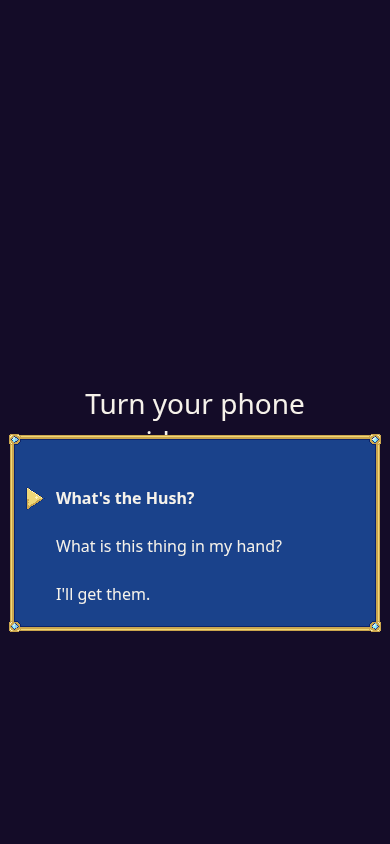
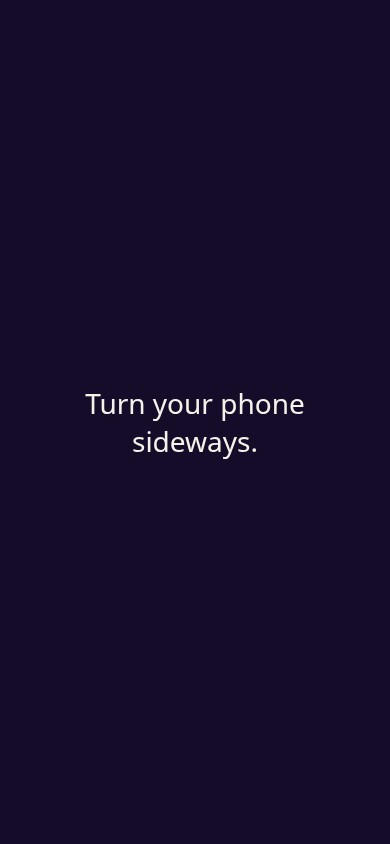
Drop the empty ChoiceBox status band and keep it under the rotate gate.
Reserve the 24px notice row only when the Empty fallback is showing.
Attach the box inside #chrome at z-index 20 so the portrait rotate
gate stays fully readable. Smoke covers both.

Changed region(s): [[0.0, 0.4929, 0.9846, 0.7701]]

diff --git a/js/ui/choice-box.js b/js/ui/choice-box.js
@@ -14,6 +14,8 @@ var SPEC = {
   gap: 4,
   targetH: 44,
   maxW: 420,
+  // Below #rotate (80) so the portrait gate stays readable; above #dialogue (7).
+  zIndex: 20,
   panel: "assets/ui/choicebox-panel.png",
   cursor: "assets/ui/choice-cursor.png"
 };
@@ -29,14 +31,17 @@ SF.ChoiceBox = {
     return a.x < b.x + b.w && a.x + a.w > b.x && a.y < b.y + b.h && a.y + a.h > b.y;
   },
 
-  layout: function (vw, vh, count, text) {
+  layout: function (vw, vh, count, text, showStatus) {
     var n = count | 0;
     if (n < 1) n = 1;
     vw = vw > 0 ? vw : 0;
     vh = vh > 0 ? vh : 0;
+    var statusOn = !!showStatus;
+    var statusH = statusOn ? SPEC.statusH : 0;
+    var gaps = statusOn ? n : Math.max(0, n - 1);
     var boxW = Math.min(SPEC.maxW, vw - SPEC.margin * 2);
     if (!(boxW > 0)) boxW = vw > 0 ? vw : 1;
-    var boxH = SPEC.inset * 2 + SPEC.statusH + n * SPEC.targetH + n * SPEC.gap;
+    var boxH = SPEC.inset * 2 + statusH + n * SPEC.targetH + gaps * SPEC.gap;
     var maxH = vh - SPEC.margin * 2;
     if (maxH > 0 && boxH > maxH) boxH = maxH;
     if (!(boxH > 0)) boxH = 1;
@@ -67,7 +72,7 @@ SF.ChoiceBox = {
     var innerX = boxX + SPEC.inset;
     var innerW = boxW - SPEC.inset * 2;
     if (innerW < 1) innerW = 1;
-    var y0 = boxY + SPEC.inset + SPEC.statusH + SPEC.gap;
+    var y0 = boxY + SPEC.inset + statusH + (statusOn ? SPEC.gap : 0);
     var targets = [];
     var i;
     for (i = 0; i < n; i++) {
@@ -84,7 +89,7 @@ SF.ChoiceBox = {
         x: innerX,
         y: boxY + SPEC.inset,
         w: innerW,
-        h: SPEC.statusH
+        h: statusH
       },
       targets: targets
     };
@@ -106,9 +111,9 @@ function cssText() {
   var statusH = SPEC.statusH;
   var targetH = SPEC.targetH;
   return ""
-    + "#sf-choicebox{position:fixed;z-index:120;margin:0;display:flex;flex-direction:column;"
+    + "#sf-choicebox{position:fixed;z-index:" + SPEC.zIndex + ";margin:0;display:flex;flex-direction:column;"
     + "gap:" + gap + "px;padding:" + inset + "px;box-sizing:border-box;overflow:hidden;"
-    + "background:transparent;color:#f6f2ea;"
+    + "background:transparent;color:#f6f2ea;pointer-events:auto;"
     + "font-family:\"Avenir Next\",\"Segoe UI\",system-ui,sans-serif;"
     + "touch-action:manipulation;image-rendering:pixelated;image-rendering:crisp-edges;}"
     + "#sf-choicebox *{box-sizing:border-box;}"
@@ -121,9 +126,10 @@ function cssText() {
     + "#sf-choicebox .sf-choice-mark{width:24px;height:24px;flex:0 0 24px;overflow:hidden;}"
     + "#sf-choicebox .sf-choice-cursor{width:24px;height:24px;display:block;object-fit:contain;image-rendering:pixelated;image-rendering:crisp-edges;}"
     + "#sf-choicebox .sf-choice-label{flex:1 1 auto;min-width:0;overflow:hidden;white-space:nowrap;text-overflow:ellipsis;}"
-    + "#sf-choicebox .sf-choicebox-status{display:flex;align-items:center;gap:6px;margin:0;overflow:hidden;"
-    + "height:" + statusH + "px;flex:0 0 " + statusH + "px;white-space:nowrap;"
+    + "#sf-choicebox .sf-choicebox-status{display:none;align-items:center;gap:6px;margin:0;overflow:hidden;"
+    + "height:0;flex:0 0 0;white-space:nowrap;"
     + "font-size:13px;line-height:16px;}"
+    + "#sf-choicebox.has-status .sf-choicebox-status{display:flex;height:" + statusH + "px;flex:0 0 " + statusH + "px;}"
     + "#sf-choicebox .sf-choicebox-panel{width:24px;height:24px;flex:0 0 24px;object-fit:contain;image-rendering:pixelated;image-rendering:crisp-edges;}"
     + "@media (prefers-reduced-motion:reduce){#sf-choicebox,#sf-choicebox *{animation:none !important;transition:none !important;}}";
 }
@@ -194,17 +200,51 @@ function speakerTextRect() {
   return box;
 }
 
+function hostNode() {
+  return (typeof document !== "undefined" && document.getElementById)
+    ? (document.getElementById("chrome") || document.body)
+    : null;
+}
+
+// Layout is in viewport pixels. When the box lives inside #chrome, map
+// those numbers into chrome's (possibly zoomed) coordinate space.
+function applyBox(root, laid) {
+  var left = laid.box.x;
+  var top = laid.box.y;
+  var width = laid.box.w;
+  var height = laid.box.h;
+  var host = root && root.parentNode;
+  if (host && host.id === "chrome" && host.getBoundingClientRect) {
+    var r = host.getBoundingClientRect();
+    var hx = host.offsetWidth || r.width || 1;
+    var hy = host.offsetHeight || r.height || 1;
+    var sx = r.width / hx;
+    var sy = r.height / hy;
+    if (!(sx > 0)) sx = 1;
+    if (!(sy > 0)) sy = 1;
+    left = (laid.box.x - r.left) / sx;
+    top = (laid.box.y - r.top) / sy;
+    width = laid.box.w / sx;
+    height = laid.box.h / sy;
+    root.style.position = "absolute";
+  } else {
+    root.style.position = "fixed";
+  }
+  root.style.left = left + "px";
+  root.style.top = top + "px";
+  root.style.width = width + "px";
+  root.style.height = height + "px";
+}
+
 function place(session) {
   var vw = window.innerWidth || 0;
   var vh = window.innerHeight || 0;
-  var laid = SF.ChoiceBox.layout(vw, vh, session.choices.length, speakerTextRect());
-  session.root.style.left = laid.box.x + "px";
-  session.root.style.top = laid.box.y + "px";
-  session.root.style.width = laid.box.w + "px";
-  session.root.style.height = laid.box.h + "px";
+  var laid = SF.ChoiceBox.layout(vw, vh, session.choices.length, speakerTextRect(), statusShowing(session));
+  applyBox(session.root, laid);
 }
 
 function noteFor(session) {
+  if (!session.panelSettled || !session.cursorSettled) return "";
   var missing = [];
   if (!session.panelOk) missing.push("choicebox-panel.png");
   if (!session.cursorOk) missing.push("choice-cursor.png");
@@ -212,9 +252,17 @@ function noteFor(session) {
   return "Empty: " + missing.join(", ");
 }
 
+function statusShowing(session) {
+  return !!noteFor(session);
+}
+
 function refreshNote(session) {
+  var show = statusShowing(session);
   session.note.textContent = noteFor(session);
   applyFrame(session.root, session.panelOk);
+  session.status.hidden = !show;
+  session.root.classList.toggle("has-status", show);
+  if (!session.settled) place(session);
 }
 
 function paintSelection(session) {
@@ -248,10 +296,11 @@ function openBox(list, onPick) {
   root.setAttribute("role", "dialog");
   root.setAttribute("aria-label", "Choices");
   root.style.position = "fixed";
-  root.style.zIndex = "120";
+  root.style.zIndex = String(SPEC.zIndex);
   root.style.margin = "0";
   root.style.background = "transparent";
   root.style.boxSizing = "border-box";
+  root.style.pointerEvents = "auto";
   applyFrame(root, false);
 
   var status = document.createElement("p");
@@ -296,10 +345,13 @@ function openBox(list, onPick) {
     marks: marks,
     cursor: cursor,
     note: note,
+    status: status,
     root: root,
     index: 0,
     panelOk: false,
     cursorOk: false,
+    panelSettled: false,
+    cursorSettled: false,
     settled: false,
     onPick: onPick,
     resolve: null,
@@ -365,7 +417,9 @@ function openBox(list, onPick) {
   session.onResize = onResize;
   SF.ChoiceBox._live = session;
 
-  document.body.appendChild(root);
+  var host = hostNode();
+  if (host) host.appendChild(root);
+  else document.body.appendChild(root);
   place(session);
   paintSelection(session);
   refreshNote(session);
@@ -381,11 +435,13 @@ function openBox(list, onPick) {
   // insert a 24x24 copy of that texture into the status row.
   watchImage(panel, function (ok) {
     if (session.settled) return;
+    session.panelSettled = true;
     session.panelOk = !!ok;
     refreshNote(session);
   });
   watchImage(cursor, function (ok) {
     if (session.settled) return;
+    session.cursorSettled = true;
     session.cursorOk = !!ok;
     if (ok) {
       cursor.className = "sf-choice-cursor";
